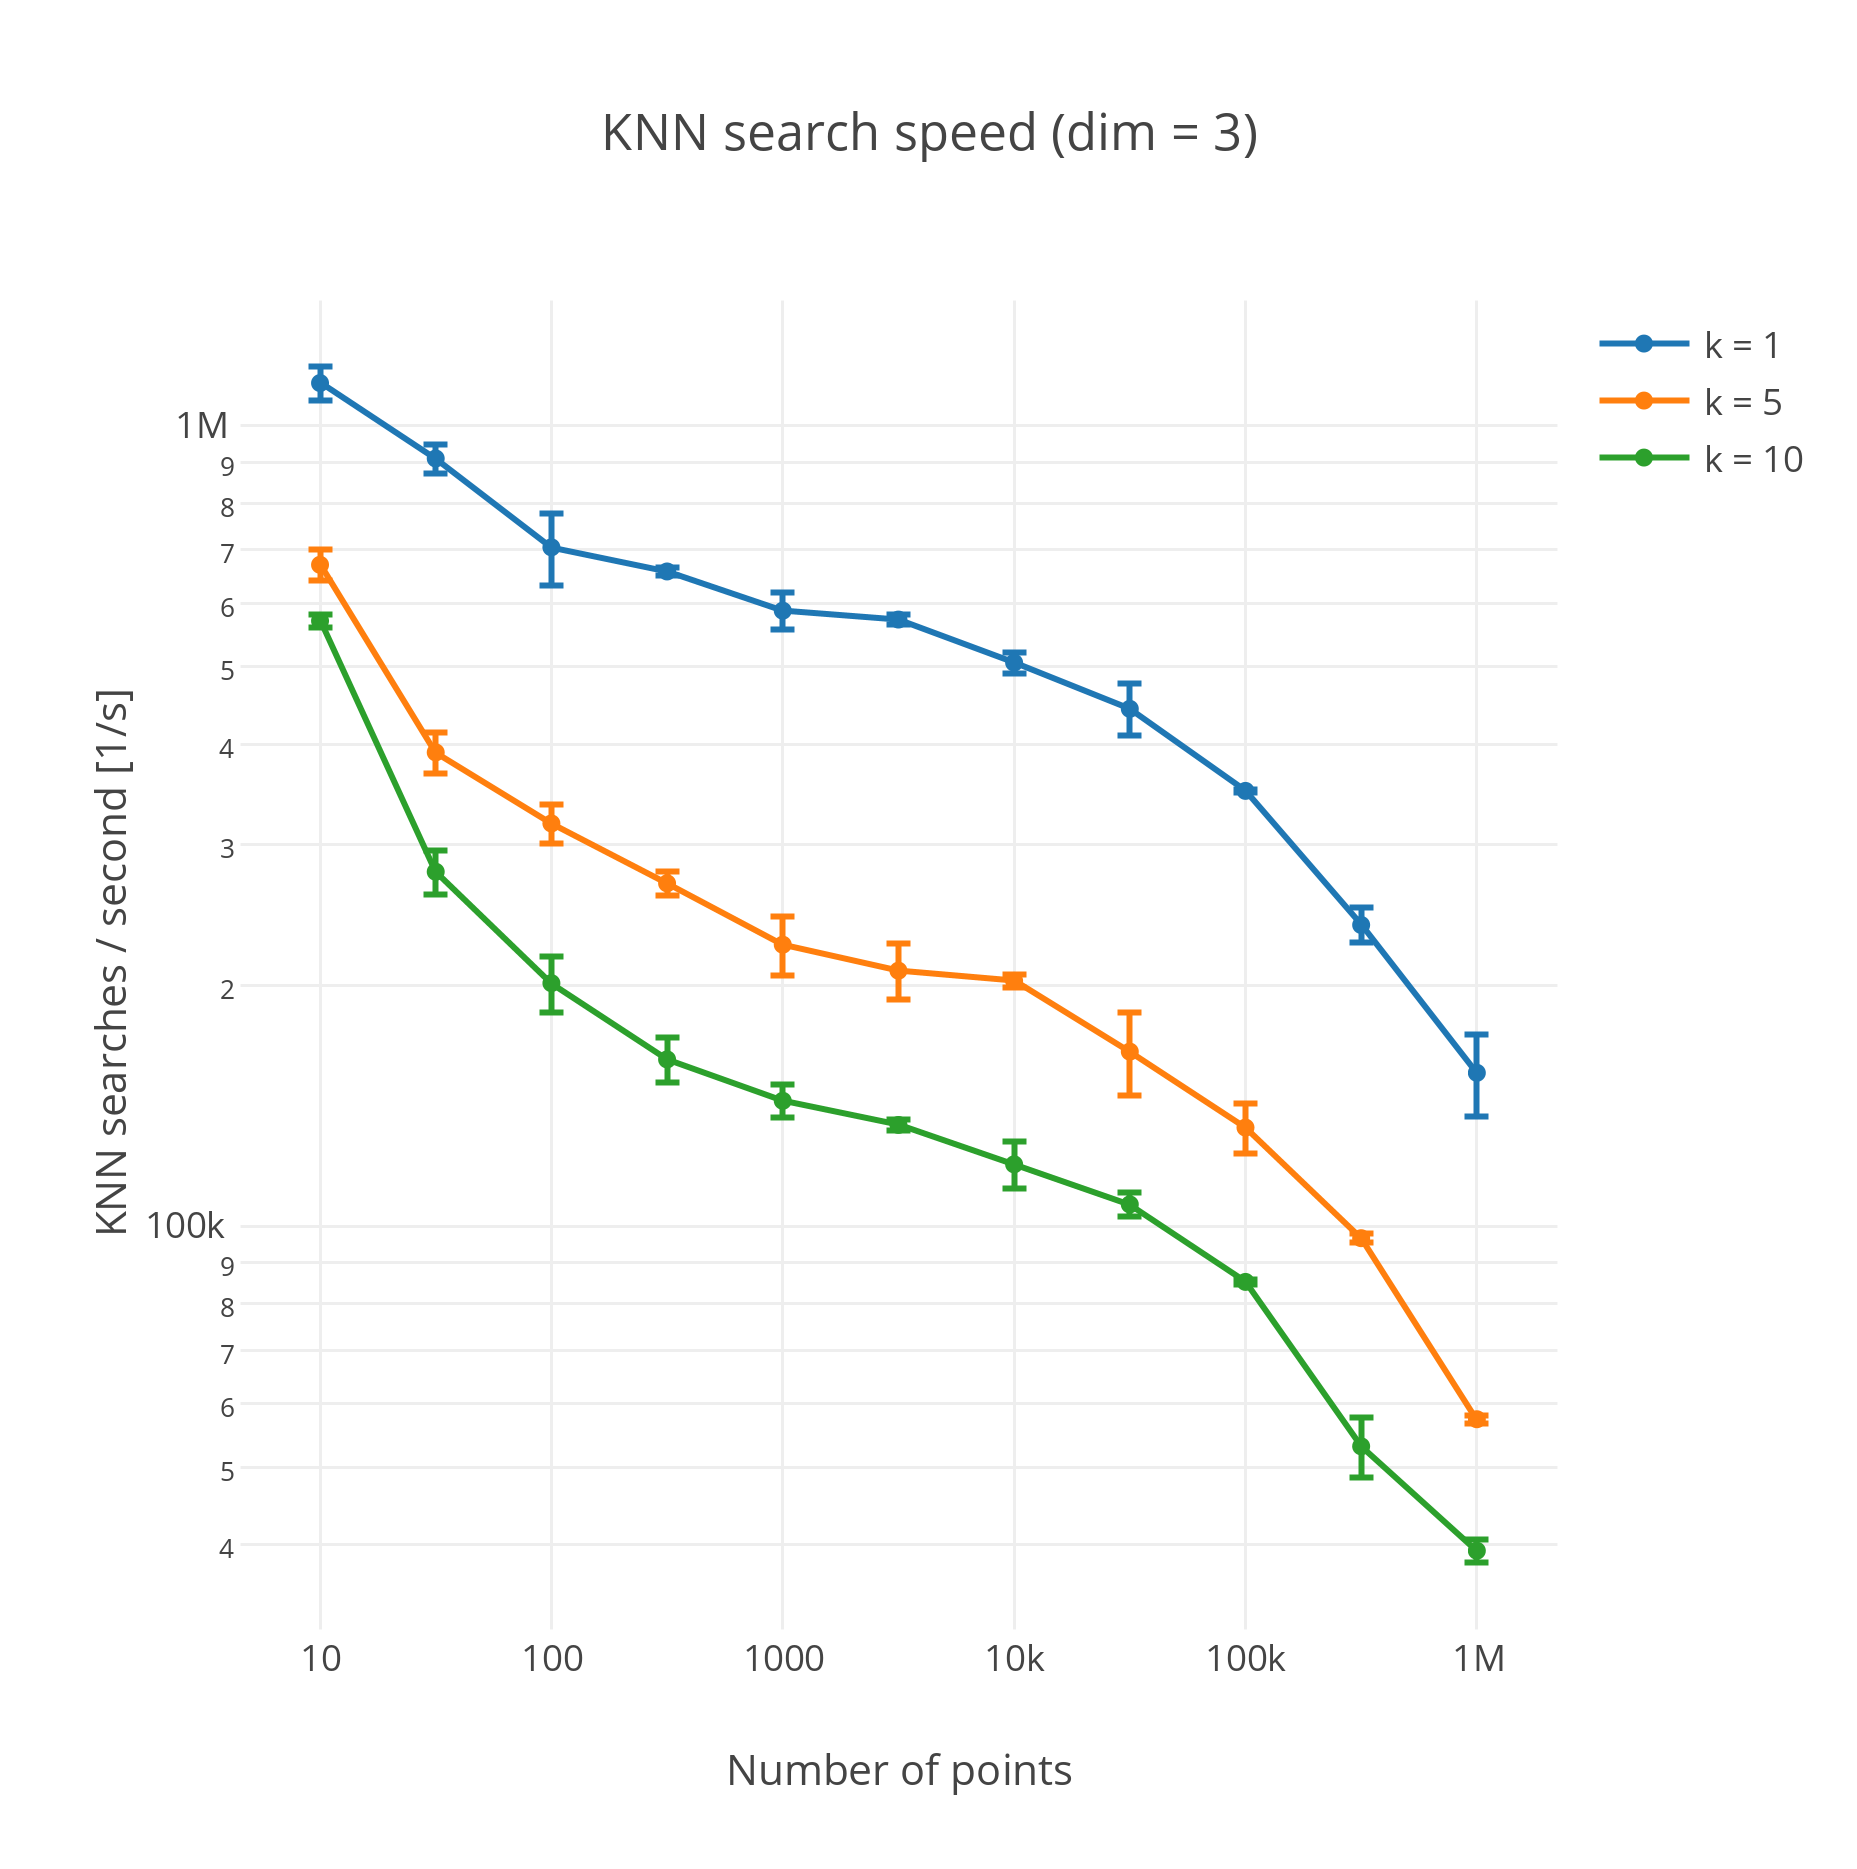
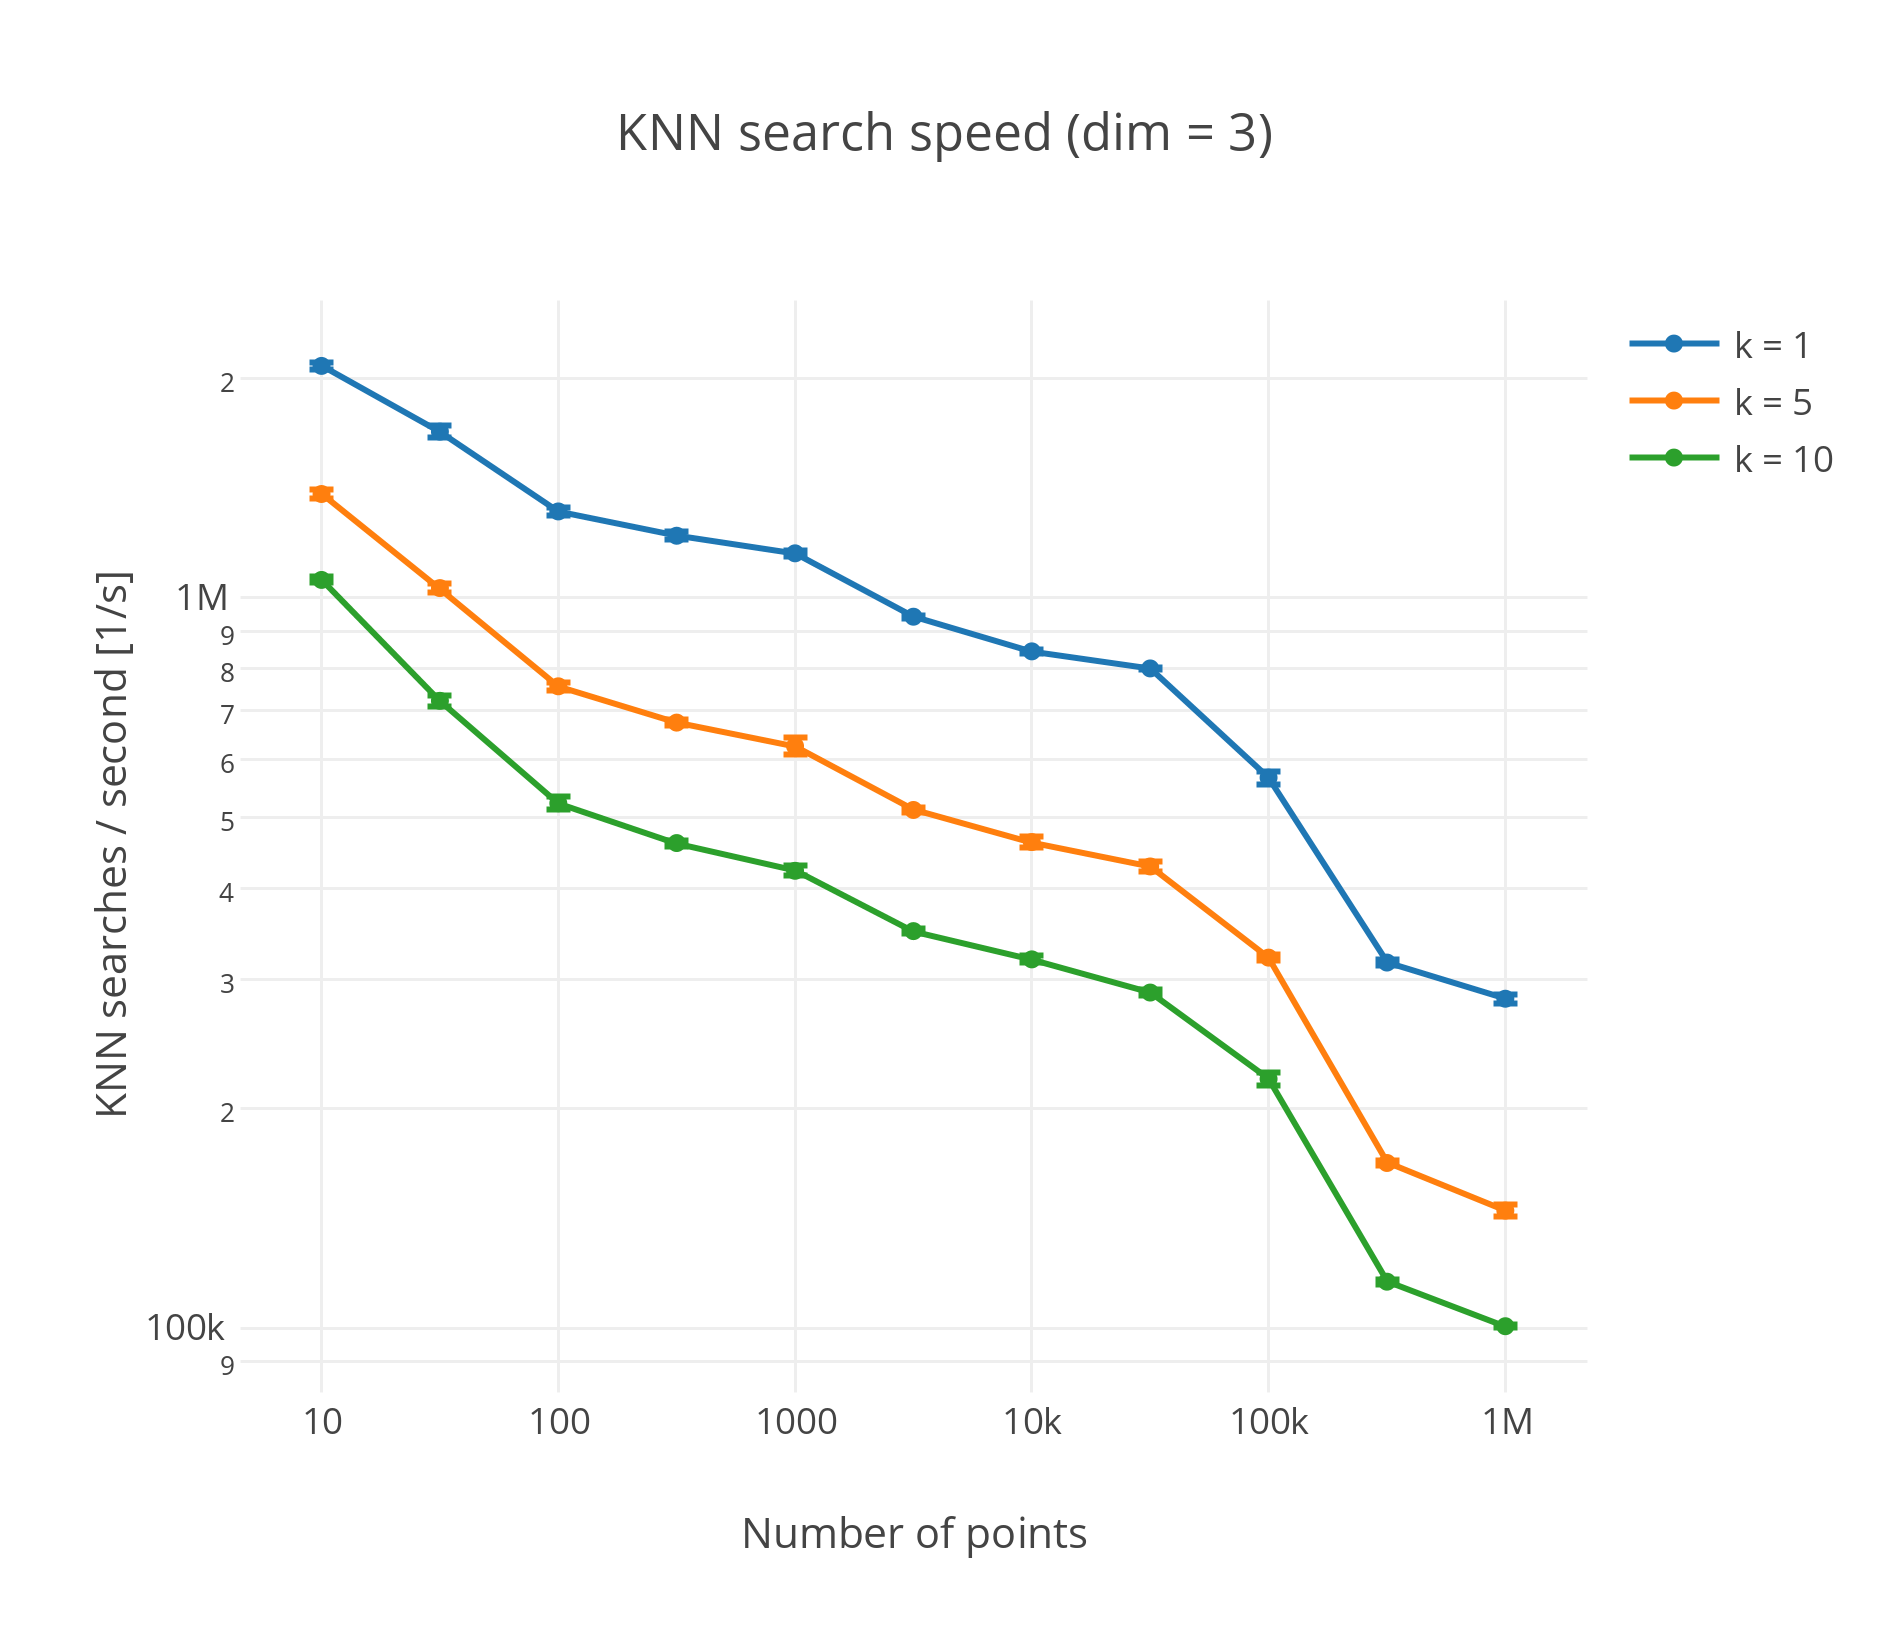
Updated benchmark figure

diff --git a/README.md b/README.md
@@ -65,7 +65,7 @@ Clicking on a plot takes you to the Plotly site for the plot where the exact dat
 
 ### KNN benchmark
 
-[![bench_knn](https://github.com/KristofferC/KDTrees.jl/raw/master/benchmark/knn_search_speed_dim_3.png)](https://plot.ly/~kcarlsson89/22/knn-search-speed-dim-3/)
+[![bench_knn](https://github.com/KristofferC/KDTrees.jl/raw/master/benchmark/knn_search_speed_dim_3.png)](https://plot.ly/~kcarlsson89/133/)
 
 ### Build time benchmark
 
